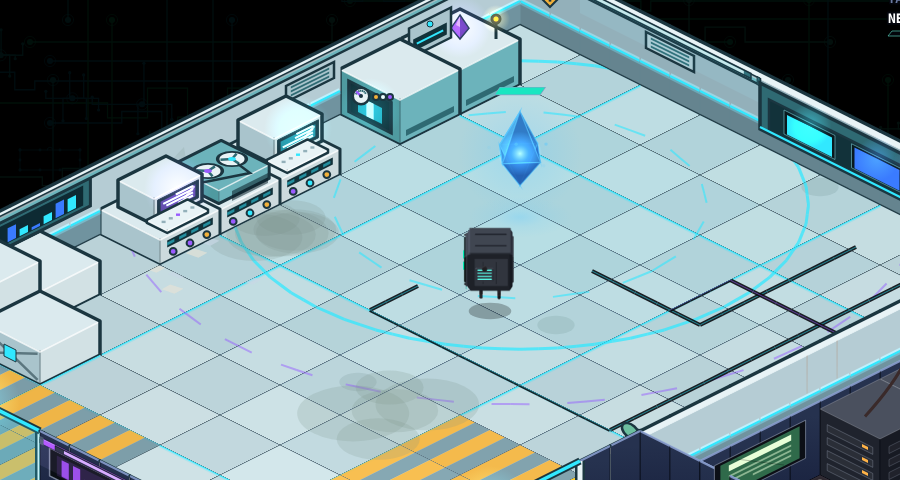
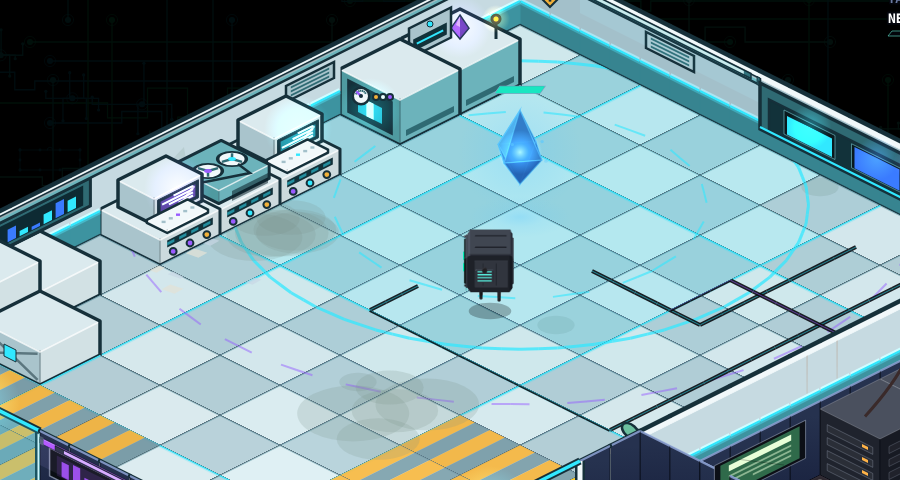
Crystal lab style: more contrast (teal wainscot, stronger checker floor, heavier outlines, flat glowing pad under the crystal ring)
Claude-Session: https://claude.ai/code/session_0115DZYYhipQqSk6LHvQcEfz

diff --git a/game.html b/game.html
@@ -1771,12 +1771,12 @@ function _showError(msg) {
 // Script files that failed to download. A missing file raises no error of its
 // own — only the "Can't find variable" from whatever needed it — so the load
 // failure is caught here, on its way down (capture phase).
-// THE BUILD. Every script URL below carries ?v=2026-10-24a, so a new deploy
+// THE BUILD. Every script URL below carries ?v=2026-10-24b, so a new deploy
 // fetches a matching set: REPORTED, an iPad ran the new js/indexart.js against
 // an old cached js/config.js ("Attempted to assign to readonly property").
 // Change this, the ?v= on every script tag and BUILD_VERSION in js/config.js
 // together (tests/boot.js checks they agree).
-window.__PAGE_BUILD = "2026-10-24a";
+window.__PAGE_BUILD = "2026-10-24b";
 window.__bootFailed = [];
 window.addEventListener("error", function (e) {
     var t = e && e.target;
@@ -1812,77 +1812,77 @@ if (!CanvasRenderingContext2D.prototype.roundRect) {
 </script>
 
 <!-- Game scripts — load order matters (globals first, logic last) -->
-<script src="js/config.js?v=2026-10-24a"></script>
-<script src="js/icons.js?v=2026-10-24a"></script>
-<script src="js/uikit.js?v=2026-10-24a"></script>
-<script src="js/rng.js?v=2026-10-24a"></script>
-<script src="js/traits.js?v=2026-10-24a"></script>
-<script src="js/elements.js?v=2026-10-24a"></script>
-<script src="js/combat.js?v=2026-10-24a"></script>
-<script src="js/species.js?v=2026-10-24a"></script>
-<script src="js/levels.js?v=2026-10-24a"></script>
-<script src="js/status.js?v=2026-10-24a"></script>
-<script src="js/predator_randomizer.js?v=2026-10-24a"></script>
-<script src="js/mass.js?v=2026-10-24a"></script>
-<script src="js/infest.js?v=2026-10-24a"></script>
-<script src="js/power.js?v=2026-10-24a"></script>
-<script src="js/save.js?v=2026-10-24a"></script>
-<script src="js/camp.js?v=2026-10-24a"></script>
-<script src="js/wavedata.js?v=2026-10-24a"></script>
-<script src="js/helpers.js?v=2026-10-24a"></script>
-<script src="js/predator.js?v=2026-10-24a"></script>
-<script src="js/abilities.js?v=2026-10-24a"></script>
-<script src="js/world.js?v=2026-10-24a"></script>
-<script src="js/commands.js?v=2026-10-24a"></script>
-<script src="js/npc.js?v=2026-10-24a"></script>
-<script src="js/codex.js?v=2026-10-24a"></script>
-<script src="js/draw.js?v=2026-10-24a"></script>
-<script src="js/beetle3d.js?v=2026-10-24a"></script>
-<script src="js/bugs3d.js?v=2026-10-24a"></script>
-<script src="js/ui.js?v=2026-10-24a"></script>
-<script src="js/waves.js?v=2026-10-24a"></script>
-<script src="js/drops.js?v=2026-10-24a"></script>
-<script src="js/clone.js?v=2026-10-24a"></script>
-<script src="js/clonework.js?v=2026-10-24a"></script>
-<script src="js/broods.js?v=2026-10-24a"></script>
-<script src="js/raids.js?v=2026-10-24a"></script>
-<script src="js/ultra.js?v=2026-10-24a"></script>
-<script src="js/formations.js?v=2026-10-24a"></script>
-<script src="js/breakout.js?v=2026-10-24a"></script>
-<script src="js/nightraids.js?v=2026-10-24a"></script>
-<script src="js/bonds.js?v=2026-10-24a"></script>
-<script src="js/autoplay.js?v=2026-10-24a"></script>
-<script src="js/indexart.js?v=2026-10-24a"></script>
-<script src="js/modules.js?v=2026-10-24a"></script>
-<script src="js/shieldcells.js?v=2026-10-24a"></script>
-<script src="js/evolution.js?v=2026-10-24a"></script>
-<script src="js/hdsprites.js?v=2026-10-24a"></script>
-<script src="js/firebombs.js?v=2026-10-24a"></script>
-<script src="js/wallunit.js?v=2026-10-24a"></script>
-<script src="js/labwall.js?v=2026-10-24a"></script>
-<script src="js/moves.js?v=2026-10-24a"></script>
-<script src="js/squads.js?v=2026-10-24a"></script>
-<script src="js/recruitcrystal.js?v=2026-10-24a"></script>
-<script src="js/buildmenu.js?v=2026-10-24a"></script>
-<script src="js/hudgems.js?v=2026-10-24a"></script>
-<script src="js/nethud.js?v=2026-10-24a"></script>
-<script src="js/commandcenter.js?v=2026-10-24a"></script>
-<script src="js/unitinfo.js?v=2026-10-24a"></script>
-<script src="js/infodex.js?v=2026-10-24a"></script>
-<script src="js/facilitymap.js?v=2026-10-24a"></script>
-<script src="js/facility.js?v=2026-10-24a"></script>
-<script src="js/facilityplay.js?v=2026-10-24a"></script>
-<script src="js/facilitydecor.js?v=2026-10-24a"></script>
-<script src="js/facilitystyle.js?v=2026-10-24a"></script>
-<script src="js/zones.js?v=2026-10-24a"></script>
-<script src="js/kits.js?v=2026-10-24a"></script>
-<script src="js/kitui.js?v=2026-10-24a"></script>
-<script src="js/toolbox.js?v=2026-10-24a"></script>
-<script src="js/mixtool.js?v=2026-10-24a"></script>
-<script src="js/radialmenu.js?v=2026-10-24a"></script>
-<script src="js/input.js?v=2026-10-24a"></script>
-<script src="js/game.js?v=2026-10-24a"></script>
-<script src="js/dev.js?v=2026-10-24a"></script>
+<script src="js/config.js?v=2026-10-24b"></script>
+<script src="js/icons.js?v=2026-10-24b"></script>
+<script src="js/uikit.js?v=2026-10-24b"></script>
+<script src="js/rng.js?v=2026-10-24b"></script>
+<script src="js/traits.js?v=2026-10-24b"></script>
+<script src="js/elements.js?v=2026-10-24b"></script>
+<script src="js/combat.js?v=2026-10-24b"></script>
+<script src="js/species.js?v=2026-10-24b"></script>
+<script src="js/levels.js?v=2026-10-24b"></script>
+<script src="js/status.js?v=2026-10-24b"></script>
+<script src="js/predator_randomizer.js?v=2026-10-24b"></script>
+<script src="js/mass.js?v=2026-10-24b"></script>
+<script src="js/infest.js?v=2026-10-24b"></script>
+<script src="js/power.js?v=2026-10-24b"></script>
+<script src="js/save.js?v=2026-10-24b"></script>
+<script src="js/camp.js?v=2026-10-24b"></script>
+<script src="js/wavedata.js?v=2026-10-24b"></script>
+<script src="js/helpers.js?v=2026-10-24b"></script>
+<script src="js/predator.js?v=2026-10-24b"></script>
+<script src="js/abilities.js?v=2026-10-24b"></script>
+<script src="js/world.js?v=2026-10-24b"></script>
+<script src="js/commands.js?v=2026-10-24b"></script>
+<script src="js/npc.js?v=2026-10-24b"></script>
+<script src="js/codex.js?v=2026-10-24b"></script>
+<script src="js/draw.js?v=2026-10-24b"></script>
+<script src="js/beetle3d.js?v=2026-10-24b"></script>
+<script src="js/bugs3d.js?v=2026-10-24b"></script>
+<script src="js/ui.js?v=2026-10-24b"></script>
+<script src="js/waves.js?v=2026-10-24b"></script>
+<script src="js/drops.js?v=2026-10-24b"></script>
+<script src="js/clone.js?v=2026-10-24b"></script>
+<script src="js/clonework.js?v=2026-10-24b"></script>
+<script src="js/broods.js?v=2026-10-24b"></script>
+<script src="js/raids.js?v=2026-10-24b"></script>
+<script src="js/ultra.js?v=2026-10-24b"></script>
+<script src="js/formations.js?v=2026-10-24b"></script>
+<script src="js/breakout.js?v=2026-10-24b"></script>
+<script src="js/nightraids.js?v=2026-10-24b"></script>
+<script src="js/bonds.js?v=2026-10-24b"></script>
+<script src="js/autoplay.js?v=2026-10-24b"></script>
+<script src="js/indexart.js?v=2026-10-24b"></script>
+<script src="js/modules.js?v=2026-10-24b"></script>
+<script src="js/shieldcells.js?v=2026-10-24b"></script>
+<script src="js/evolution.js?v=2026-10-24b"></script>
+<script src="js/hdsprites.js?v=2026-10-24b"></script>
+<script src="js/firebombs.js?v=2026-10-24b"></script>
+<script src="js/wallunit.js?v=2026-10-24b"></script>
+<script src="js/labwall.js?v=2026-10-24b"></script>
+<script src="js/moves.js?v=2026-10-24b"></script>
+<script src="js/squads.js?v=2026-10-24b"></script>
+<script src="js/recruitcrystal.js?v=2026-10-24b"></script>
+<script src="js/buildmenu.js?v=2026-10-24b"></script>
+<script src="js/hudgems.js?v=2026-10-24b"></script>
+<script src="js/nethud.js?v=2026-10-24b"></script>
+<script src="js/commandcenter.js?v=2026-10-24b"></script>
+<script src="js/unitinfo.js?v=2026-10-24b"></script>
+<script src="js/infodex.js?v=2026-10-24b"></script>
+<script src="js/facilitymap.js?v=2026-10-24b"></script>
+<script src="js/facility.js?v=2026-10-24b"></script>
+<script src="js/facilityplay.js?v=2026-10-24b"></script>
+<script src="js/facilitydecor.js?v=2026-10-24b"></script>
+<script src="js/facilitystyle.js?v=2026-10-24b"></script>
+<script src="js/zones.js?v=2026-10-24b"></script>
+<script src="js/kits.js?v=2026-10-24b"></script>
+<script src="js/kitui.js?v=2026-10-24b"></script>
+<script src="js/toolbox.js?v=2026-10-24b"></script>
+<script src="js/mixtool.js?v=2026-10-24b"></script>
+<script src="js/radialmenu.js?v=2026-10-24b"></script>
+<script src="js/input.js?v=2026-10-24b"></script>
+<script src="js/game.js?v=2026-10-24b"></script>
+<script src="js/dev.js?v=2026-10-24b"></script>
 <script>
 // ── BOOT CHECK ────────────────────────────────────────────
 // Every file above must have arrived and run before init.js starts the game.
@@ -1935,7 +1935,7 @@ if (!CanvasRenderingContext2D.prototype.roundRect) {
     document.body.appendChild(d);
 })();
 </script>
-<script src="js/init.js?v=2026-10-24a"></script>
+<script src="js/init.js?v=2026-10-24b"></script>
 
 </body>
 </html>

diff --git a/js/facilitystyle.js b/js/facilitystyle.js
@@ -16,7 +16,7 @@
 // Which rooms use it is FP_STYLE_ROOMS: the prototype is the Crystal Chamber alone.
 
 const FP_PAL = {
-    ink: "#1b3640", cap: "#e8f3f6", wallLit: "#b5ccd4", wallDark: "#93b0ba", wallBase: "#70939f", floorA: "#cadde1", floorB: "#bcd2d8", seam: "#8fb6bf",
+    ink: "#16303a", cap: "#f1f8fa", wallLit: "#c6dae1", wallDark: "#a3c0ca", wallBase: "#3d93a0", floorA: "#d8e8ec", floorB: "#b4cdd5", seam: "#8fb6bf",
     teal: "#4f9aa0", tealLit: "#6cb3bb", tealDark: "#2f6a73", case: "#a9c4cc", caseLit: "#dbeaee",
     cyan: "#31e8ff", blue: "#3a7bff", violet: "#9a5cff", amber: "#f2b13a", white: "#eaffff", leaf: "#4fa58a",
 };
@@ -32,7 +32,7 @@ function _fpStyleCol(kind, col) {
 const FP_STYLE_FLOOR = {
     base: FP_PAL.floorA, alt: FP_PAL.floorB, a: 1,
     mark: (h, o, x, y) => {
-        o.push({ t: "L", c: "rgba(111,150,160,0.55)", w: 1, p: [-0.5, -0.5, 0.5, -0.5] }, { t: "L", c: "rgba(111,150,160,0.55)", w: 1, p: [-0.5, -0.5, -0.5, 0.5] });
+        o.push({ t: "L", c: "rgba(61,120,135,0.5)", w: 2, p: [-0.5, -0.5, 0.5, -0.5] }, { t: "L", c: "rgba(61,120,135,0.5)", w: 2, p: [-0.5, -0.5, -0.5, 0.5] });
         if ((x & 3) === 0) o.push({ t: "L", c: "rgba(49,232,255,0.22)", w: 5, p: [-0.5, -0.5, -0.5, 0.5] }, { t: "L", c: "rgba(49,232,255,0.95)", w: 2, p: [-0.5, -0.5, -0.5, 0.5] });   // a neon seam every fourth tile line
         if ((y & 3) === 0) o.push({ t: "L", c: "rgba(49,232,255,0.22)", w: 5, p: [-0.5, -0.5, 0.5, -0.5] }, { t: "L", c: "rgba(49,232,255,0.95)", w: 2, p: [-0.5, -0.5, 0.5, -0.5] });
         if (h % 19 === 0) o.push({ t: "C", c: "rgba(105,135,125,0.18)", u: ((h >>> 3) % 7 - 3) / 10, v: ((h >>> 6) % 7 - 3) / 10, r: 0.22 });   // a faint discoloration
@@ -42,7 +42,7 @@ const FP_STYLE_FLOOR = {
 // ── shapes ──
 function _fpFill(pts, col, edge, lw) { _fpQuad(pts, col, edge || col, lw || 1); }   // a smooth fill (the stroke is the fill colour, so neighbours leave no hairline)
 function _fpSBox(x0, y0, x1, y1, z0, z1, top, sideY, sideX, lw) {   // a toon box: three flat faces separated by VALUE, one bold ink outline round the SILHOUETTE only, a white shine on the lit top edges
-    const P = _fpP, t = [P(x0, y0, z1), P(x1, y0, z1), P(x1, y1, z1), P(x0, y1, z1)], b = [P(x0, y0, z0), P(x1, y0, z0), P(x1, y1, z0), P(x0, y1, z0)], ink = FP_PAL.ink, w = lw || 3;
+    const P = _fpP, t = [P(x0, y0, z1), P(x1, y0, z1), P(x1, y1, z1), P(x0, y1, z1)], b = [P(x0, y0, z0), P(x1, y0, z0), P(x1, y1, z0), P(x0, y1, z0)], ink = FP_PAL.ink, w = lw || 3.5;
     _fpQuad([t[3], t[2], b[2], b[3]], sideY, sideY, 1); _fpQuad([t[2], t[1], b[1], b[2]], sideX, sideX, 1); _fpQuad(t, top, top, 1);
     ctx.lineJoin = "round"; ctx.lineCap = "round";
     ctx.strokeStyle = "rgba(27,54,64,0.35)"; ctx.lineWidth = Math.max(1.5, w * 0.5); ctx.beginPath(); ctx.moveTo(t[2][0], t[2][1]); ctx.lineTo(b[2][0], b[2][1]); ctx.stroke();   // the front corner crease
@@ -84,7 +84,7 @@ function _fpStyleWall(it, Hd) {
     }
     if (Hd >= 26) { const p = P(0, wain), q = P(1, wain); ctx.globalCompositeOperation = "lighter"; ctx.strokeStyle = "rgba(49,232,255,0.16)"; ctx.lineWidth = 6; ctx.beginPath(); ctx.moveTo(p[0], p[1]); ctx.lineTo(q[0], q[1]); ctx.stroke(); ctx.globalCompositeOperation = "source-over";
         ctx.strokeStyle = FP_PAL.cyan; ctx.lineWidth = 2; ctx.beginPath(); ctx.moveTo(p[0], p[1]); ctx.lineTo(q[0], q[1]); ctx.stroke(); }   // the neon seam
-    const t0 = P(0, Hd), t1 = P(1, Hd), s0 = P(0, 0), s1 = P(1, 0); ctx.strokeStyle = FP_PAL.ink; ctx.lineWidth = 3.5; ctx.lineCap = "round"; ctx.beginPath(); ctx.moveTo(t0[0], t0[1]); ctx.lineTo(t1[0], t1[1]); ctx.stroke();
+    const t0 = P(0, Hd), t1 = P(1, Hd), s0 = P(0, 0), s1 = P(1, 0); ctx.strokeStyle = FP_PAL.ink; ctx.lineWidth = 4.5; ctx.lineCap = "round"; ctx.beginPath(); ctx.moveTo(t0[0], t0[1]); ctx.lineTo(t1[0], t1[1]); ctx.stroke();
     ctx.globalAlpha = 0.85; ctx.lineWidth = 2.5; ctx.beginPath(); ctx.moveTo(s0[0], s0[1]); ctx.lineTo(s1[0], s1[1]); ctx.stroke(); ctx.globalAlpha = 1; ctx.lineCap = "butt";
 }
 // a post at every corner of a styled room (the same corner treatment everywhere)

diff --git a/js/facilitydecor.js b/js/facilitydecor.js
@@ -85,6 +85,7 @@ function _fpFloorBuild(F) {
             for (let i = 0; i + 1 < d.path.length; i++) { const a = d.path[i], b = d.path[i + 1]; _fpSeg(map, a[0], a[1], b[0], b[1], { c: "rgba(8,10,14,0.9)", w: 4 }, F); _fpSeg(map, a[0], a[1], b[0], b[1], { c: _fpRgba(col === "#ffffff" ? "#ffb347" : col, 0.55), w: 1 }, F); }
         } else if (k === "ring") {   // a painted ring (a pad, a circle of light): short segments round it
             const R = d.radius, steps = Math.max(24, Math.round(R * 14));
+            if (sty && d.glow) for (let x = Math.floor(d.at[0] - R); x <= Math.ceil(d.at[0] + R); x++) for (let y = Math.floor(d.at[1] - R); y <= Math.ceil(d.at[1] + R); y++) if (Math.hypot(x - d.at[0], y - d.at[1]) < R - 0.35 && _fp.cells.has(x + "," + y)) _fpCellOps(map, x, y).push({ t: "G", c: col, a: 0.16 });   // a flat glowing pad inside a glow ring
             for (let i = 0; i < steps; i++) { if (d.dashed && (i & 1)) continue; const a0 = i / steps * 6.2832, a1 = (i + 1) / steps * 6.2832; _fpSeg(map, d.at[0] + Math.cos(a0) * R, d.at[1] + Math.sin(a0) * R, d.at[0] + Math.cos(a1) * R, d.at[1] + Math.sin(a1) * R, { c: _fpRgba(col, d.a || 0.7), w: d.w || 2, glow: !!d.glow }, F); }
         } else if (k === "arrows") {   // chevrons along a line, pointing from a to b
             const a = d.a, b = d.b, len = Math.hypot(b[0] - a[0], b[1] - a[1]), ux = (b[0] - a[0]) / len, uy = (b[1] - a[1]) / len, n = Math.max(1, Math.floor(len / 1.6));

diff --git a/js/config.js b/js/config.js
@@ -4,7 +4,7 @@
 
 // The build this file belongs to — the same as window.__PAGE_BUILD and the
 // ?v= on every script tag in game.html (the boot check compares them).
-const BUILD_VERSION = "2026-10-24a";
+const BUILD_VERSION = "2026-10-24b";
 
 // ── GLOBAL ERROR DISPLAY ──────────────────────────────────
 // Lives in game.html (_showError), before any file loads. This file used to
